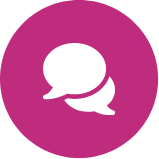
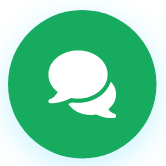
change in footer

diff --git a/src/components/repeats/footer/Footer.js b/src/components/repeats/footer/Footer.js
@@ -12,24 +12,16 @@ import "./Footer.css";
 
 const containerArr = [
   {
-    img: "/images/footer/home.png",
-    link: "/",
+    img: "/images/footer/tag.png",
+    link: "",
   },
   {
-    img: "/images/footer/club2.png",
-    link: "/club",
+    img: "/images/footer/bell.png",
+    link: "",
   },
   {
-    img: "/images/footer/list.png",
-    link: "/mybaby",
-  },
-  {
-    img: "/images/footer/book.png",
-    link: "/appointment",
-  },
-  {
-    img: "/images/footer/shopping_cart.png",
-    link: "/marketplace",
+    img: "/images/footer/user.png",
+    link: "",
   },
 ];
 
@@ -42,7 +34,7 @@ const Footer = () => {
       <footer className="footer">
         <div className="sosAndGray">
           <a>
-            <img className="sos" src="/images/footer/sos.png" />
+            <img className="sos" src="/images/footer/home.png" />
           </a>
           <div className="grayIcons">
             {containerArr.map((el, i) => {
@@ -53,6 +45,9 @@ const Footer = () => {
               );
             })}
           </div>
+        </div>
+        <div class="mainChat">
+          <img class="chat" src="/images/footer/chat.png"/>
         </div>
 {/* 
         <ChatBot>
